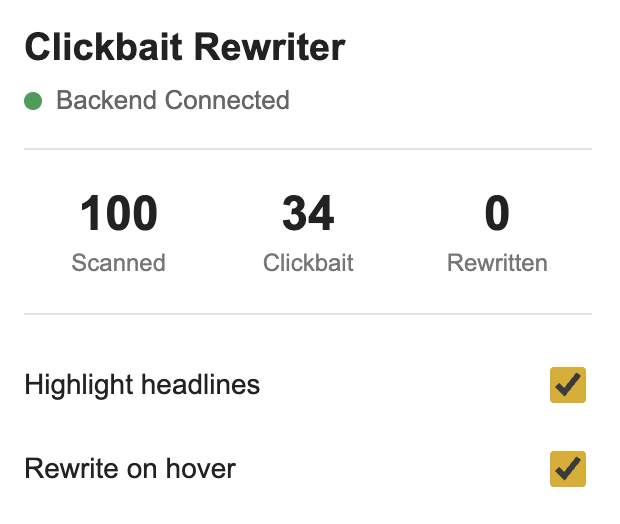
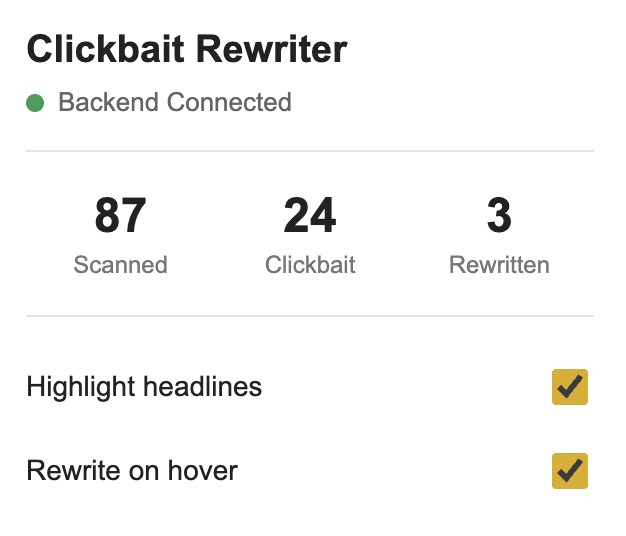
Rewrite Sample

diff --git a/evaluation/README.md b/evaluation/README.md
@@ -8,7 +8,7 @@ The evaluation includes:
 
 -   clickbait classification evaluation
 -   headline rewrite quality evaluation
--   error analysis
+-   overall system analysis
 
 ## Classification Evaluation
 
@@ -60,8 +60,28 @@ Each criterion is rated from 1 (poor) to 5 (excellent):
 
 ### Method
 
+The rewrite evaluation uses 25 manually selected clickbait headlines collected from Yahoo News Taiwan, ETtoday, and UDN.
+
+Each rewritten headline was manually evaluated using the four criteria above, and the overall result is calculated as the average score of the four criteria.
+
 ### Results
+
+| Metric | Score |
+|--------|------:|
+| Clarity | 4.84 |
+| Informativeness | 4.44 |
+| Faithfulness | 5.00 |
+| Readability | 4.68 |
+| Overall | **4.74 / 5.00** |
 
 ### Analysis
 
-## Error Analysis
+The rewritten headlines consistently preserved the original article content while reducing sensational or ambiguous wording.
+
+Faithfulness achieved the highest score, indicating that the system rarely introduced unsupported information. Lower scores were primarily associated with headlines that did not fully reveal hidden information or occasionally resembled news summaries rather than concise headlines.
+
+## Overall Analysis
+
+The classification and rewrite evaluations demonstrate that the system can reliably detect clickbait headlines and generate more informative, neutral, and faithful alternatives.
+
+The main remaining limitations include borderline clickbait headlines that are difficult to classify, rewritten headlines that occasionally omit part of the hidden information, and dependency on the Gemini API, whose free-tier quota and service availability may affect rewriting performance.
